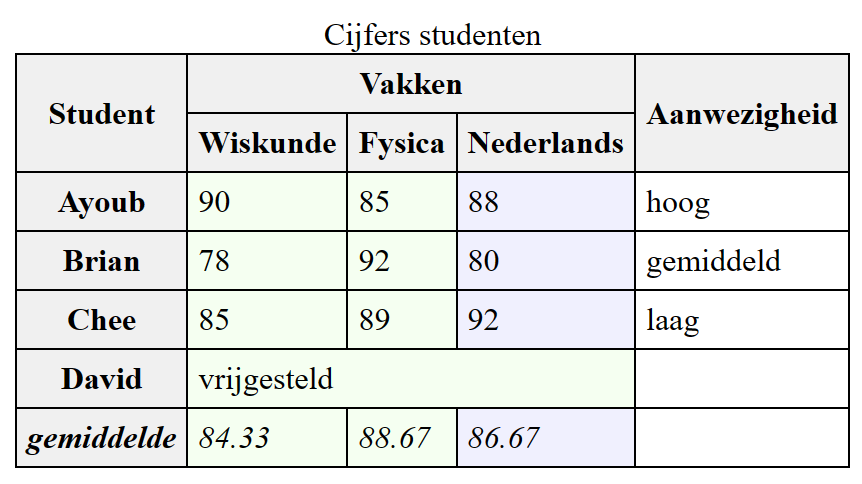
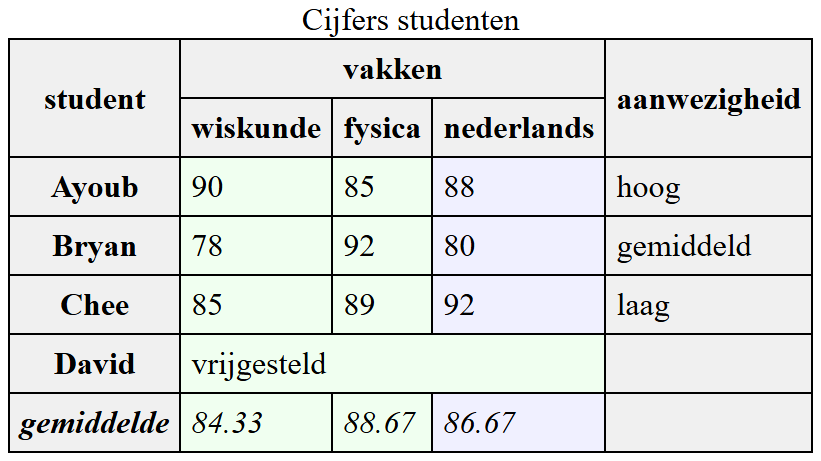
spans = n00b, secties en kolommen = pro

Changed region(s): [[0.0, 0.0, 1.0, 1.0]]

diff --git a/04_tabellen.html b/04_tabellen.html
@@ -118,17 +118,17 @@
                <td><code>&lt;col&gt;</code></td>
                <td>gebruikt in <code>&lt;colgroup&gt;</code>: duidt een groep kolommen aan</td>
             </tr>
-            <tr>
+            <tr class="pro">
                <td><code>&lt;thead&gt;</code></td>
                <td>optioneel: duidt het bovenste deel van de tabel aan</td>
             </tr>
-            <tr>
+            <tr class="pro">
                <td><code>&lt;tbody&gt;</code></td>
-               <td>duidt het middelste deel van de tabel aan</td>
+               <td>optioneel: duidt het middelste deel van de tabel aan</td>
             </tr>
-            <tr>
+            <tr class="pro">
                <td><code>&lt;tfoot&gt;</code></td>
-               <td>duidt het onderste deel van de tabel aan</td>
+               <td>optioneel: duidt het onderste deel van de tabel aan</td>
             </tr>
             <tr>
                <td><code>&lt;tr&gt;</code></td>
@@ -160,13 +160,13 @@
                <td><code>row</code>, <code>col</code></td>
                <td>beschrijft deze header cell een rij of een kolom?</td>
             </tr>
-            <tr class="pro">
+            <tr>
                <td><code>colspan</code></td>
                <td><code>&lt;td colspan="2"&gt;</code></td>
                <td>getal</td>
                <td>cel overspant meerdere kolommen</td>
             </tr>
-            <tr class="pro">
+            <tr>
                <td><code>rowspan</code></td>
                <td><code>&lt;td rowspan="2"&gt;</code></td>
                <td>getal</td>
@@ -209,7 +209,7 @@
          <img src="img/04_tabellen/tabel1.png" alt="" class="w-150">
       </div>
 
-      <h3>Uitbreiding met <code>&lt;caption&gt;</code> en <code>&lt;th scope="..."&gt;</code></h3>
+      <h3>Bijschrift met <code>&lt;caption&gt;</code> en koppen met <code>&lt;th scope="..."&gt;</code></h3>
       <p>Het <code>&lt;th&gt;</code> element duidt een header cel aan, het <code>scope</code> attribuut duidt aan of het om een rij of een kolom gaat:</p>
       <div class="codecompare top">
          <pre data-demo class="w-700"><code>&lt;!-- begin CSS blok --&gt;
@@ -248,13 +248,75 @@
          <img src="img/04_tabellen/tabel2.png" alt="" class="w-300">
       </div>
 
-      <h3>Uitbreiding met <code>&lt;thead&gt;</code>, <code>&lt;tbody&gt;</code> en <code>&lt;tfoot&gt;</code></h3>
+      <h3>Cellen samenvoegen met <code>colspan</code> en <code>rowspan</code></h3>
       <p>
-         Met deze elementen kan je je tabel onderverdelen in een bovenste, middelste en onderste gedeelte.
-         Op zich zul je geen verschil zien, maar het is wel handig om b.v. de header een achtergrondkleur te geven, en de footer in schuin te zetten:
+         Met <code>colspan</code> en <code>rowspan</code> kan je cellen samenvoegen: de cel overspant dan meerdere kolommen of meerdere rijen.
+         Zo kan je b.v. de vakken onder één gemeenschappelijke titel groeperen, of aanduiden dat een student voor alle vakken vrijgesteld is:
       </p>
       <div class="codecompare top">
-        <pre class="w-700" data-demo><code>&lt;!-- begin CSS blok --&gt;
+         <pre class="w-700" data-demo><code>&lt;!-- begin CSS blok --&gt;
+&lt;style&gt;
+   table { border-collapse: collapse; }
+   td, th { border: 1px solid black; padding: 5px; }
+&lt;/style&gt;
+&lt;!-- einde CSS blok --&gt;
+&lt;table&gt;
+   &lt;caption&gt;Cijfers studenten&lt;/caption&gt;
+   &lt;tr&gt;
+      &lt;th scope="col" rowspan="2"&gt;student&lt;/th&gt;
+      &lt;th scope="col" colspan="3"&gt;vakken&lt;/th&gt;
+      &lt;th scope="col" rowspan="2"&gt;aanwezigheid&lt;/th&gt;
+   &lt;/tr&gt;
+   &lt;tr&gt;
+      &lt;th scope="col"&gt;wiskunde&lt;/th&gt;
+      &lt;th scope="col"&gt;fysica&lt;/th&gt;
+      &lt;th scope="col"&gt;nederlands&lt;/th&gt;
+   &lt;/tr&gt;
+   &lt;tr&gt;
+      &lt;th scope="row"&gt;Ayoub&lt;/th&gt;
+      &lt;td&gt;90&lt;/td&gt;
+      &lt;td&gt;85&lt;/td&gt;
+      &lt;td&gt;88&lt;/td&gt;
+      &lt;td&gt;hoog&lt;/td&gt;
+   &lt;/tr&gt;
+   &lt;tr&gt;
+      &lt;th scope="row"&gt;Bryan&lt;/th&gt;
+      &lt;td&gt;78&lt;/td&gt;
+      &lt;td&gt;92&lt;/td&gt;
+      &lt;td&gt;80&lt;/td&gt;
+      &lt;td&gt;gemiddeld&lt;/td&gt;
+   &lt;/tr&gt;
+   &lt;tr&gt;
+      &lt;th scope="row"&gt;Chee&lt;/th&gt;
+      &lt;td&gt;85&lt;/td&gt;
+      &lt;td&gt;89&lt;/td&gt;
+      &lt;td&gt;92&lt;/td&gt;
+      &lt;td&gt;laag&lt;/td&gt;
+   &lt;/tr&gt;
+   &lt;tr&gt;
+      &lt;th scope="row"&gt;David&lt;/th&gt;
+      &lt;td colspan="3"&gt;vrijgesteld&lt;/td&gt;
+      &lt;td&gt;&lt;/td&gt;
+   &lt;/tr&gt;
+   &lt;tr&gt;
+      &lt;th scope="row"&gt;gemiddelde&lt;/th&gt;
+      &lt;td&gt;84.33&lt;/td&gt;
+      &lt;td&gt;88.67&lt;/td&gt;
+      &lt;td&gt;86.67&lt;/td&gt;
+      &lt;td&gt;&lt;/td&gt;
+   &lt;/tr&gt;
+&lt;/table&gt;</code></pre>
+         <img src="img/04_tabellen/tabel3.png" alt="" class="w-400">
+      </div>
+
+      <div class="pro">
+         <h3>Secties met <code>&lt;thead&gt;</code>, <code>&lt;tbody&gt;</code> en <code>&lt;tfoot&gt;</code></h3>
+         <p>
+            Met deze elementen kan je je tabel onderverdelen in een bovenste, middelste en onderste gedeelte.
+            Op zich zul je geen verschil zien, maar het is wel handig om b.v. de header een achtergrondkleur te geven, en de footer schuin te zetten:
+         </p>
+         <div class="codecompare top">
+            <pre data-demo><code>&lt;!-- begin CSS blok --&gt;
 &lt;style&gt;
    table { border-collapse: collapse; }
    td, th { border: 1px solid black; padding: 5px; }
@@ -266,142 +328,14 @@
    &lt;caption&gt;Cijfers studenten&lt;/caption&gt;
    &lt;thead&gt;
       &lt;tr&gt;
-         &lt;th scope="col"&gt;student&lt;/th&gt;
+         &lt;th scope="col" rowspan="2"&gt;student&lt;/th&gt;
+         &lt;th scope="col" colspan="3"&gt;vakken&lt;/th&gt;
+         &lt;th scope="col" rowspan="2"&gt;aanwezigheid&lt;/th&gt;
+      &lt;/tr&gt;
+      &lt;tr&gt;
          &lt;th scope="col"&gt;wiskunde&lt;/th&gt;
          &lt;th scope="col"&gt;fysica&lt;/th&gt;
          &lt;th scope="col"&gt;nederlands&lt;/th&gt;
-      &lt;/tr&gt;
-   &lt;/thead&gt;
-   &lt;tbody&gt;
-      &lt;tr&gt;
-         &lt;th scope="row"&gt;Ayoub&lt;/th&gt;
-         &lt;td&gt;90&lt;/td&gt;
-         &lt;td&gt;85&lt;/td&gt;
-         &lt;td&gt;88&lt;/td&gt;
-      &lt;/tr&gt;
-      &lt;tr&gt;
-         &lt;th scope="row"&gt;Bryan&lt;/th&gt;
-         &lt;td&gt;78&lt;/td&gt;
-         &lt;td&gt;92&lt;/td&gt;
-         &lt;td&gt;80&lt;/td&gt;
-      &lt;/tr&gt;
-      &lt;tr&gt;
-         &lt;th scope="row"&gt;Chee&lt;/th&gt;
-         &lt;td&gt;85&lt;/td&gt;
-         &lt;td&gt;89&lt;/td&gt;
-         &lt;td&gt;92&lt;/td&gt;
-      &lt;/tr&gt;
-   &lt;/tbody&gt;
-   &lt;tfoot&gt;
-      &lt;tr&gt;
-         &lt;th scope="row"&gt;gemiddelde&lt;/th&gt;
-         &lt;td&gt;84.33&lt;/td&gt;
-         &lt;td&gt;88.67&lt;/td&gt;
-         &lt;td&gt;86.67&lt;/td&gt;
-      &lt;/tr&gt;
-   &lt;/tfoot&gt;
-&lt;/table&gt;</code></pre>
-         <img src="img/04_tabellen/tabel3.png" alt="" class="w-350">
-
-      </div>
-      <div class="pro">
-         <h3>Uitbreiding met <code>&lt;colgroup&gt;</code> en <code>&lt;col&gt;</code></h3>
-         <p>
-            Met <code>&lt;colgroup&gt;</code> en <code>&lt;col&gt;</code> kun je kolommen groeperen.
-            Dit is kan zinvol zijn om b.v. in dit voorbeeld wetenschapsvakken een andere achtergrondkleur te geven dan taalvakken:
-         </p>
-         <div class="codecompare top">
-            <pre data-demo><code>&lt;!-- begin CSS blok --&gt;
-&lt;style&gt;
-   table { border-collapse: collapse; }
-   td, th { border: 1px solid black; padding: 5px; }
-   thead { background-color: #f0f0f0 }
-   tfoot { font-style: italic; }
-   col {background-color: #f0f0f0;} /* grijze achtergrondkleur */
-   col.wetenschapsvakken { background-color: #f0fff0; } /* lichtgroene achtergrondkleur */
-   col.taalvakken { background-color: #f0f0ff; } /* lichtblauwe achtergrondkleur */
-&lt;/style&gt;
-&lt;!-- einde CSS blok --&gt;
-&lt;table&gt;
-   &lt;caption&gt;Cijfers studenten&lt;/caption&gt;
-   &lt;colgroup&gt;
-      &lt;col&gt;
-      &lt;col class="wetenschapsvakken" span="2"&gt;
-      &lt;col class="taalvakken"&gt;
-   &lt;/colgroup&gt;
-   &lt;thead&gt;
-      &lt;tr&gt;
-         &lt;th scope="col"&gt;student&lt;/th&gt;
-         &lt;th scope="col"&gt;wiskunde&lt;/th&gt;
-         &lt;th scope="col"&gt;fysica&lt;/th&gt;
-         &lt;th scope="col"&gt;nederlands&lt;/th&gt;
-      &lt;/tr&gt;
-   &lt;/thead&gt;
-   &lt;tbody&gt;
-      &lt;tr&gt;
-         &lt;th scope="row"&gt;Ayoub&lt;/th&gt;
-         &lt;td&gt;90&lt;/td&gt;
-         &lt;td&gt;85&lt;/td&gt;
-         &lt;td&gt;88&lt;/td&gt;
-      &lt;/tr&gt;
-      &lt;tr&gt;
-         &lt;th scope="row"&gt;Bryan&lt;/th&gt;
-         &lt;td&gt;78&lt;/td&gt;
-         &lt;td&gt;92&lt;/td&gt;
-         &lt;td&gt;80&lt;/td&gt;
-      &lt;/tr&gt;
-      &lt;tr&gt;
-         &lt;th scope="row"&gt;Chee&lt;/th&gt;
-         &lt;td&gt;85&lt;/td&gt;
-         &lt;td&gt;89&lt;/td&gt;
-         &lt;td&gt;92&lt;/td&gt;
-      &lt;/tr&gt;
-   &lt;/tbody&gt;
-   &lt;tfoot&gt;
-      &lt;tr&gt;
-         &lt;th scope="row"&gt;gemiddelde&lt;/th&gt;
-         &lt;td&gt;84.33&lt;/td&gt;
-         &lt;td&gt;88.67&lt;/td&gt;
-         &lt;td&gt;86.67&lt;/td&gt;
-      &lt;/tr&gt;
-   &lt;/tfoot&gt;
-&lt;/table&gt;</code></pre>
-            <img src="img/04_tabellen/tabel4.png" alt="" class="w-350">
-         </div>
-      </div>
-
-      <div class="pro">
-         <h3>Uitbreiding met <code>rowspan</code> en <code>colspan</code></h3>
-         <p>Met <code>rowspan</code> en <code>colspan</code> kan je cellen samenvoegen. </p>
-         <div class="codecompare top">
-            <pre data-demo><code>&lt;!-- begin CSS blok --&gt;
-   &lt;style&gt;
-   table { border-collapse: collapse; }
-   td, th { border: 1px solid black; padding: 5px; }
-   thead { background-color: #f0f0f0 }
-   tfoot { font-style: italic; }
-   col {background-color: #f0f0f0;} /* grijze achtergrondkleur */
-   col.wetenschapsvakken { background-color: #f0fff0; } /* lichtgroene achtergrondkleur */
-   col.taalvakken { background-color: #f0f0ff; } /* lichtblauwe achtergrondkleur */
-&lt;/style&gt;
-&lt;!-- einde CSS blok --&gt;
-&lt;table&gt;
-   &lt;caption&gt;Cijfers studenten&lt;/caption&gt;
-   &lt;colgroup&gt;
-      &lt;col&gt;
-      &lt;col class="wetenschapsvakken" span="2"&gt;
-      &lt;col class="taalvakken"&gt;
-   &lt;/colgroup&gt;
-   &lt;thead&gt;
-      &lt;tr&gt;
-         &lt;th scope="col" rowspan="2"&gt;Student&lt;/th&gt;
-         &lt;th scope="col" colspan="3"&gt;Vakken&lt;/th&gt;
-         &lt;th scope="col" rowspan="2"&gt;Aanwezigheid&lt;/th&gt;
-      &lt;/tr&gt;
-      &lt;tr&gt;
-         &lt;th scope="col"&gt;Wiskunde&lt;/th&gt;
-         &lt;th scope="col"&gt;Fysica&lt;/th&gt;
-         &lt;th scope="col"&gt;Nederlands&lt;/th&gt;
       &lt;/tr&gt;
    &lt;/thead&gt;
    &lt;tbody&gt;
@@ -413,7 +347,7 @@
          &lt;td&gt;hoog&lt;/td&gt;
       &lt;/tr&gt;
       &lt;tr&gt;
-         &lt;th scope="row"&gt;Brian&lt;/th&gt;
+         &lt;th scope="row"&gt;Bryan&lt;/th&gt;
          &lt;td&gt;78&lt;/td&gt;
          &lt;td&gt;92&lt;/td&gt;
          &lt;td&gt;80&lt;/td&gt;
@@ -438,7 +372,87 @@
          &lt;td&gt;84.33&lt;/td&gt;
          &lt;td&gt;88.67&lt;/td&gt;
          &lt;td&gt;86.67&lt;/td&gt;
-         &lt;td&gt;&nbsp;&lt;/td&gt;
+         &lt;td&gt;&lt;/td&gt;
+      &lt;/tr&gt;
+   &lt;/tfoot&gt;
+&lt;/table&gt;</code></pre>
+            <img src="img/04_tabellen/tabel4.png" alt="" class="w-400">
+         </div>
+      </div>
+
+      <div class="pro">
+         <h3>Kolommen met <code>&lt;colgroup&gt;</code> en <code>&lt;col&gt;</code></h3>
+         <p>
+            Met <code>&lt;colgroup&gt;</code> en <code>&lt;col&gt;</code> kun je kolommen groeperen.
+            Dit is kan zinvol zijn om b.v. in dit voorbeeld wetenschapsvakken een andere achtergrondkleur te geven dan taalvakken:
+         </p>
+         <div class="codecompare top">
+            <pre data-demo><code>&lt;!-- begin CSS blok --&gt;
+&lt;style&gt;
+   table { border-collapse: collapse; }
+   td, th { border: 1px solid black; padding: 5px; }
+   thead { background-color: #f0f0f0 }
+   tfoot { font-style: italic; }
+   col { background-color: #f0f0f0; } /* grijze achtergrondkleur */
+   col.wetenschapsvakken { background-color: #f0fff0; } /* lichtgroene achtergrondkleur */
+   col.taalvakken { background-color: #f0f0ff; } /* lichtblauwe achtergrondkleur */
+&lt;/style&gt;
+&lt;!-- einde CSS blok --&gt;
+&lt;table&gt;
+   &lt;caption&gt;Cijfers studenten&lt;/caption&gt;
+   &lt;colgroup&gt;
+      &lt;col&gt;
+      &lt;col class="wetenschapsvakken" span="2"&gt;
+      &lt;col class="taalvakken"&gt;
+      &lt;col&gt;
+   &lt;/colgroup&gt;
+   &lt;thead&gt;
+      &lt;tr&gt;
+         &lt;th scope="col" rowspan="2"&gt;student&lt;/th&gt;
+         &lt;th scope="col" colspan="3"&gt;vakken&lt;/th&gt;
+         &lt;th scope="col" rowspan="2"&gt;aanwezigheid&lt;/th&gt;
+      &lt;/tr&gt;
+      &lt;tr&gt;
+         &lt;th scope="col"&gt;wiskunde&lt;/th&gt;
+         &lt;th scope="col"&gt;fysica&lt;/th&gt;
+         &lt;th scope="col"&gt;nederlands&lt;/th&gt;
+      &lt;/tr&gt;
+   &lt;/thead&gt;
+   &lt;tbody&gt;
+      &lt;tr&gt;
+         &lt;th scope="row"&gt;Ayoub&lt;/th&gt;
+         &lt;td&gt;90&lt;/td&gt;
+         &lt;td&gt;85&lt;/td&gt;
+         &lt;td&gt;88&lt;/td&gt;
+         &lt;td&gt;hoog&lt;/td&gt;
+      &lt;/tr&gt;
+      &lt;tr&gt;
+         &lt;th scope="row"&gt;Bryan&lt;/th&gt;
+         &lt;td&gt;78&lt;/td&gt;
+         &lt;td&gt;92&lt;/td&gt;
+         &lt;td&gt;80&lt;/td&gt;
+         &lt;td&gt;gemiddeld&lt;/td&gt;
+      &lt;/tr&gt;
+      &lt;tr&gt;
+         &lt;th scope="row"&gt;Chee&lt;/th&gt;
+         &lt;td&gt;85&lt;/td&gt;
+         &lt;td&gt;89&lt;/td&gt;
+         &lt;td&gt;92&lt;/td&gt;
+         &lt;td&gt;laag&lt;/td&gt;
+      &lt;/tr&gt;
+      &lt;tr&gt;
+         &lt;th scope="row"&gt;David&lt;/th&gt;
+         &lt;td colspan="3"&gt;vrijgesteld&lt;/td&gt;
+         &lt;td&gt;&lt;/td&gt;
+      &lt;/tr&gt;
+   &lt;/tbody&gt;
+   &lt;tfoot&gt;
+      &lt;tr&gt;
+         &lt;th scope="row"&gt;gemiddelde&lt;/th&gt;
+         &lt;td&gt;84.33&lt;/td&gt;
+         &lt;td&gt;88.67&lt;/td&gt;
+         &lt;td&gt;86.67&lt;/td&gt;
+         &lt;td&gt;&lt;/td&gt;
       &lt;/tr&gt;
    &lt;/tfoot&gt;
 &lt;/table&gt;</code></pre>
